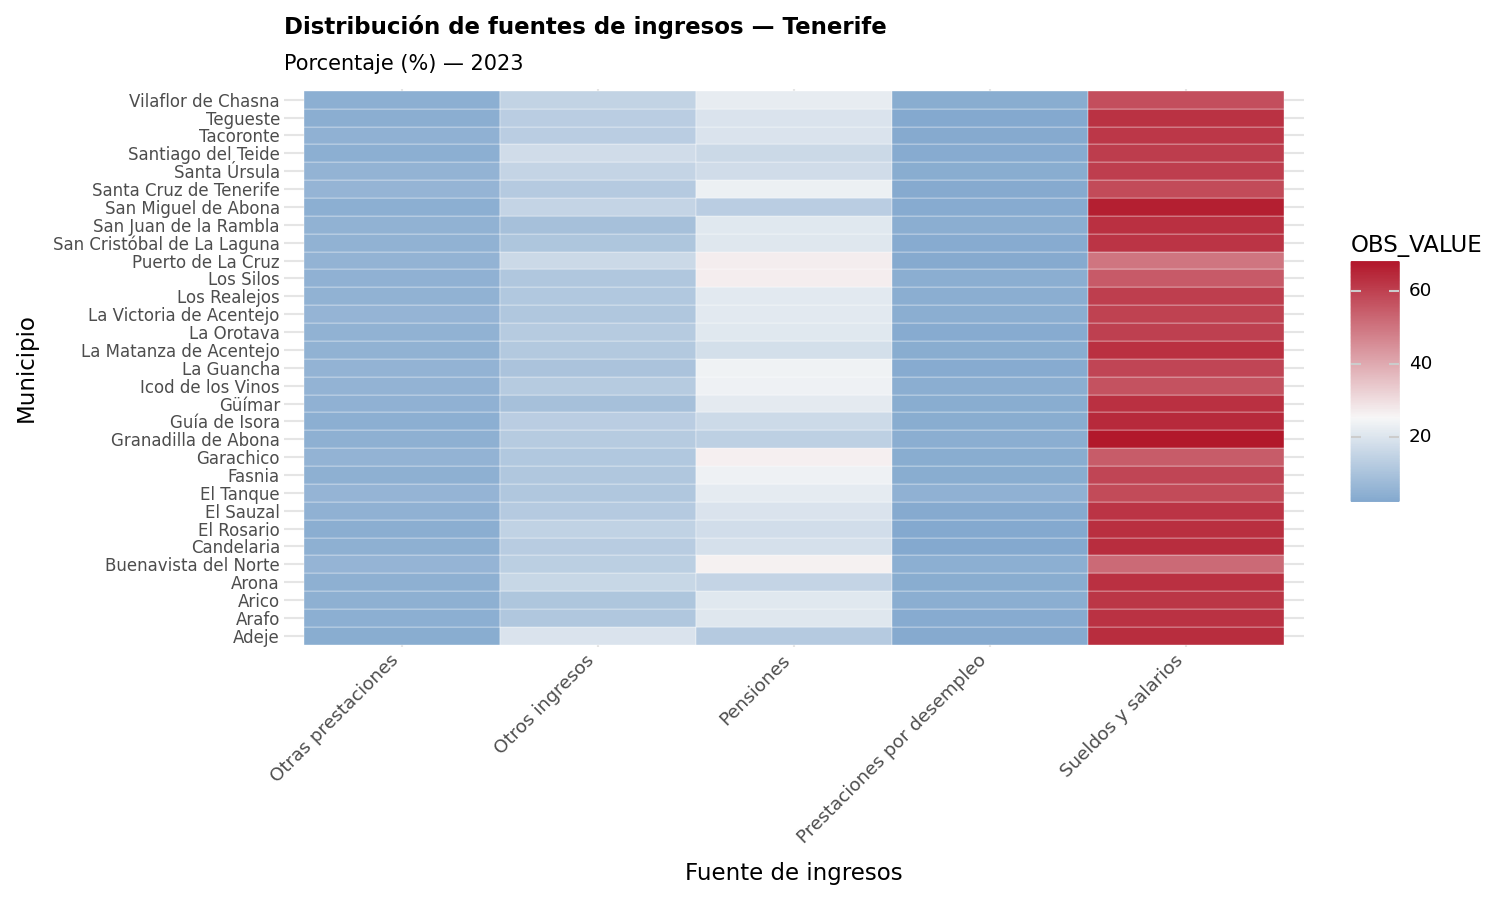
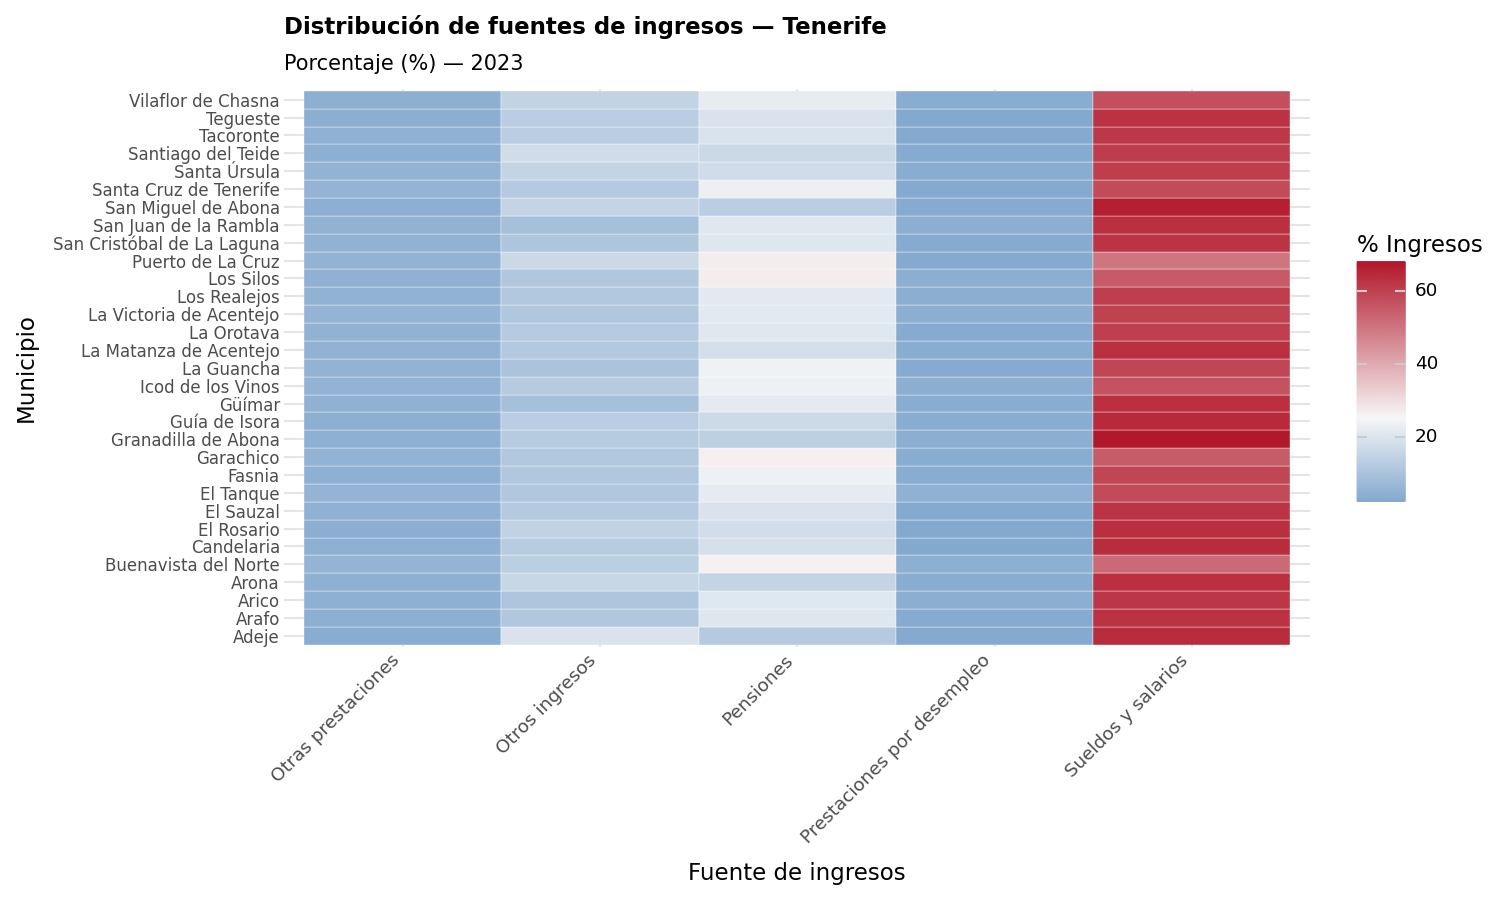
fixed label name in graphics

diff --git a/proyecto/src/graphics.py b/proyecto/src/graphics.py
@@ -283,6 +283,7 @@ def grafico_fuentes_ingresos_islas(distribucion_renta_clean: pd.DataFrame) -> gg
     g = stacked_bars_graphic(
         df=df_islas,
         x="isla", y="OBS_VALUE", fill="MEDIDAS#es",
+        fill_label='Fuente de ingresos',
         titulo="Composición de fuentes de ingresos por isla",
         subtitulo="Porcentaje sobre el total — 2023",
         xlabel="Isla", ylabel="%",
@@ -312,6 +313,7 @@ def grafico_fuentes_ingresos_municipios_grid(distribucion_renta_clean: pd.DataFr
         g_isla = stacked_bars_graphic(
             df=df_isla,
             x="municipio", y="OBS_VALUE", fill="MEDIDAS#es",
+            fill_label='Fuente de ingresos',
             titulo=f"Fuentes de ingresos por municipio — {isla}",
             subtitulo="Porcentaje sobre el total — 2023",
             xlabel="Municipio", ylabel="%",
@@ -333,11 +335,12 @@ def grafico_heatmap_ingresos_islas(distribucion_renta_clean: pd.DataFrame) -> gg
     df = distribucion_renta_clean.copy()
     df["isla"] = df["municipio"].map(MUNICIPIO_ISLA).fillna("Tenerife")
     df = df[df["año"] == 2023]
-    df_islas = df.groupby(["isla", "MEDIDAS#es"])["OBS_VALUE"].mean().reset_index()
     df = df[df["isla"].isin(["Tenerife", "La Palma", "La Gomera", "El Hierro"])]
+    df_islas = df.groupby(["isla", "MEDIDAS#es"])["OBS_VALUE"].mean().reset_index()
     g = heatmap_graphic(
         df=df_islas,
         x="MEDIDAS#es", y="isla", fill="OBS_VALUE",
+        fill_label='% Ingresos',
         titulo="Distribución de fuentes de ingresos por isla",
         subtitulo="Porcentaje (%) — 2023",
         xlabel="Fuente de ingresos", ylabel="Isla",
@@ -355,6 +358,7 @@ def grafico_heatmap_ingresos_tenerife(distribucion_renta_clean: pd.DataFrame) ->
     g = heatmap_graphic(
         df=df_tenerife,
         x="MEDIDAS#es", y="municipio", fill="OBS_VALUE",
+        fill_label='% Ingresos',
         titulo="Distribución de fuentes de ingresos — Tenerife",
         subtitulo="Porcentaje (%) — 2023",
         xlabel="Fuente de ingresos", ylabel="Municipio",
@@ -368,7 +372,7 @@ def grafico_heatmap_ingresos_otras_islas_grid(distribucion_renta_clean: pd.DataF
     df = distribucion_renta_clean.copy()
     df["isla"] = df["municipio"].map(MUNICIPIO_ISLA).fillna("Tenerife")
     df = df[(df["isla"] != "Tenerife") & (df["año"] == 2023)]
-    df = df[df["isla"].isin(["Tenerife", "La Palma", "La Gomera", "El Hierro"])]
+    df = df[df["isla"].isin(["La Palma", "La Gomera", "El Hierro"])]
     graficos_islas = []
     for isla in sorted(df["isla"].unique()):
         df_isla = (
@@ -380,6 +384,7 @@ def grafico_heatmap_ingresos_otras_islas_grid(distribucion_renta_clean: pd.DataF
         g_isla = heatmap_graphic(
             df=df_isla,
             x="MEDIDAS#es", y="municipio", fill="OBS_VALUE",
+            fill_label='% Ingresos',
             titulo=f"Distribución de fuentes de ingresos — {isla}",
             subtitulo="Porcentaje (%) — 2023",
             xlabel="Fuente de ingresos", ylabel="Municipio",
@@ -513,6 +518,7 @@ def grafico_mapa_renta_evolucion_grid(
         g = choropleth_map_graphic(
             gdf=gdf,
             fill="OBS_VALUE",
+            fill_label='Renta (€)',
             titulo=f"Año {ano}",
             subtitulo="Renta neta media por persona",
             low="#013468", mid="#f7f7f7", high="#b2182b"

diff --git a/proyecto/src/graphics_templates.py b/proyecto/src/graphics_templates.py
@@ -92,7 +92,7 @@ def bars_graphic(
     )
 
 def stacked_bars_graphic(
-    df, x, y, fill, titulo, subtitulo="", xlabel="", ylabel="",
+    df, x, y, fill, titulo, subtitulo="", xlabel="", ylabel="", fill_label=None,
     palette="Set2", position="stack",
     x_text_size=9, x_text_rotation=45,
     legend_position="right",
@@ -100,7 +100,7 @@ def stacked_bars_graphic(
     return (
         ggplot(df, aes(x=x, y=y, fill=fill))
         + geom_col(position=position)
-        + labs(title=titulo, subtitle=subtitulo, x=xlabel, y=ylabel, fill=fill)
+        + labs(title=titulo, subtitle=subtitulo, x=xlabel, y=ylabel, fill=fill_label or fill)
         + scale_fill_brewer(type="qual", palette=palette)
         + scale_y_continuous(expand=(0, 0))
         + theme_minimal()
@@ -144,7 +144,8 @@ def heatmap_graphic(
     x: str,
     y: str,
     fill: str,
-    titulo: str,
+    fill_label=None,
+    titulo: str = "",
     subtitulo: str = "",
     xlabel: str = "",
     ylabel: str = "",
@@ -167,7 +168,7 @@ def heatmap_graphic(
             subtitle=subtitulo,
             x=xlabel,
             y=ylabel,
-            fill=fill
+            fill=fill_label or fill
         )
         + scale_fill_gradient2(
             low=low,
@@ -228,7 +229,8 @@ def scatter_graphic(
 def choropleth_map_graphic(
     gdf: gpd.GeoDataFrame,
     fill: str,
-    titulo: str,
+    fill_label=None,
+    titulo: str = "",
     subtitulo: str = "",
     low: str = "#FFF9C4",
     mid: str = "#f7f7f7",
@@ -237,7 +239,7 @@ def choropleth_map_graphic(
     return (
         ggplot(gdf)
         + geom_map(aes(fill=fill), color="white", size=0.1)
-        + labs(title=titulo, subtitle=subtitulo, fill=fill)
+        + labs(title=titulo, subtitle=subtitulo, fill=fill_label or fill)
         +  scale_fill_gradient2(low=low, mid=mid, high=high, midpoint=gdf[fill].median())
         + coord_fixed()
         + theme_minimal()
